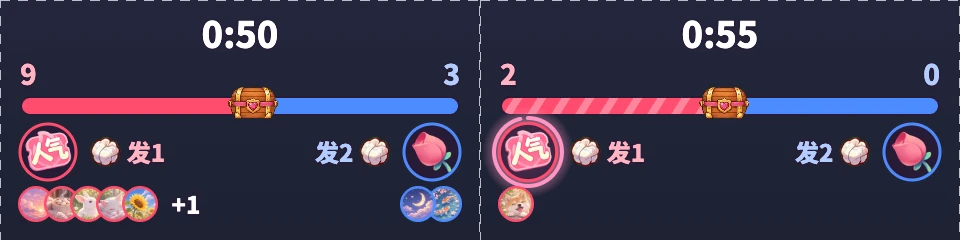
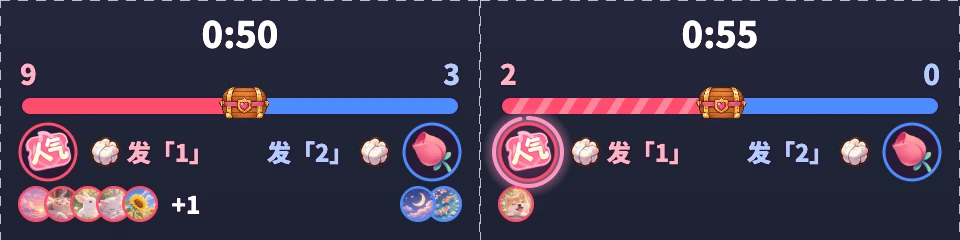
docs: 发「1」 / 发「2」 under the tug bar, and each end at least 300 票 from the middle
The danmaku's label puts the 1 and 2 to send in quotes, so 发「1」 reads as "send 1" by the paper ball it throws. Each end
of the bar is now the chest's 电池 / 20, 300 to 500 票 (was 100 to 500): most chests were at 100, one ×100 a 秒杀. The
board's ×100 buttons are ×520, still a 秒杀 whatever the chest.

check-game's routes give their 秒杀 and lightning 票 as a share of the span (of), not 100 and 55, so they run on the
board now and on the page before and after it follows; the air and peek routes wait for the prankster to be there
before reading it. tug-gifts, tug-danmaku, tug-lucky and tug-hud-1x are shot again.

diff --git a/docs/design/desktop-pet/boards/DP-DesktopPet.dc.html b/docs/design/desktop-pet/boards/DP-DesktopPet.dc.html
@@ -343,7 +343,7 @@ const PKLINES = {
 // as any gift may). One on no side is called out by name (TAUNT); a run of RETORT.hits balls in RETORT.ms has the one hit
 // answer back.
 // How a fight ends (用户：“挪中间ok”“有些人就喜欢偷袭”): the line starts in the middle, span 票 from either end (the 电池
-// in her chest / 20, 100 to 500: 用户：“20票太低、建议是100-500”). The 票 count the moment they reach the page, what has
+// in her chest / 20, 300 to 500: 用户：“20票太低、建议是100-500”, then 2026-11-24 “每次拔河的血量提升到300”). The 票 count the moment they reach the page, what has
 // landed or not: enough of one side's on their way to take the line to its end ends the fight there and then (秒杀),
 // even with the prankster still in the air, and nothing waits for the drop, for it to get up or for the lightning; a big
 // gift is meant to end it (用户：“别人送了一大组就想秒杀哦结束”). At 0:00 the board waits GAME.grace for 票 sent before 0
@@ -369,7 +369,7 @@ const SIDE_ICON = { 1: 'https://s1.hdslb.com/bfs/live/7d78646ee4ecc900cebbe46cb9
 const SIDE_COL = { 1: '#FF4D6D', '-1': '#4D8BFF' }, SIDE_LIGHT = { 1: '#FFB3C1', '-1': '#B3CDFF' };
 // the tug bar along the top of the page, wider than the old life bar (用户：“扣血加血看不出来”): her pink from the left
 // as far as the line (a little chest), its purple beyond. Under it, two rows: each side's gift icon (ICON, on a dark disc
-// ringed in its side's colour) and, smaller, a paper ball and 发1 / 发2, then the avatars of who joined it by gift. Pictures
+// ringed in its side's colour) and, smaller, a paper ball and 发「1」 / 发「2」, then the avatars of who joined it by gift. Pictures
 // over words (用户 2026-11-24：“人气票和小花花的图标太小、用户看不清”“太啰嗦了”): the gift is what pulls, so it is the big one;
 // the danmaku throws paper balls, so its mark is one, not a second way to pull. The game's words are read off a stream
 // shrunk on a phone (用户：“拔河的文字太小了、看不清”), so they keep to her bubbles' size (28 px, BUBBLE_FONT): the countdown
@@ -1378,7 +1378,7 @@ class Component extends DCLogic {
     // loot: there is something in the chest to fight over
     gm.visit = { phase: 'peek', at: now, queue: [], hits: [], spent: 0, count: 0, freezes: 0, helped: 0,
       sides: new Map(), balls: [], struck: {}, retorted: {}, taunted: new Set(), taunt: -Infinity, lucked: -Infinity, luck: null,
-      span: clamp(Math.round(gm.chest / 20), 100, 500), net: 0, red: 0, blue: 0, favours: -1, flip: {}, drag: 0, pos: { x: -70, y: 120 }, chest: null, loot: gm.chest > 0 };
+      span: clamp(Math.round(gm.chest / 20), 300, 500), net: 0, red: 0, blue: 0, favours: -1, flip: {}, drag: 0, pos: { x: -70, y: 120 }, chest: null, loot: gm.chest > 0 };
     this.pkSay(gm.brag ? 'brag' : gm.grudge ? 'grudge' : 'peek', now, gm.grudge);
     gm.brag = false; gm.grudge = null;   // (said once: 上次 is the last visit, 用户 review: it named one from visits before)
   }
@@ -2271,8 +2271,8 @@ class Component extends DCLogic {
     g.drawImage(cb, lx - chw / 2, y + h / 2 - chh * 0.6 - hop, chw, chh);
     g.restore();
     if (v.phase !== 'tug') return g.restore();   // still in the air: no rows yet, it flies right through where they go
-    // Under the bar, each side from its end inward. The first row: its gift's icon on a disc, then a paper ball and 发1 /
-    // 发2 (the danmaku throws balls); while that side's gift counts twice the icon glows pink and beats in a pink ring
+    // Under the bar, each side from its end inward. The first row: its gift's icon on a disc, then a paper ball and 发「1」 /
+    // 发「2」 (the danmaku throws balls; the 1 in quotes, what to send); while that side's gift counts twice the icon glows pink and beats in a pink ring
     // running down the window (DOUBLE). The second: the avatars of whoever joined it by gift, the newest first, five at
     // most and +N for the rest; a new one pops in.
     for (const side of [1, -1]) {
@@ -2294,7 +2294,7 @@ class Component extends DCLogic {
       }
       const ball = this.ball.plain, bh = 30, bw = ball.width / ball.height * bh, bx = at2(disc * 2 + 14 + bw / 2);
       g.drawImage(ball, bx - bw / 2, r1 - bh / 2, bw, bh);
-      g.save(); g.textAlign = side > 0 ? 'left' : 'right'; g.textBaseline = 'middle'; text(`发${side > 0 ? 1 : 2}`, at2(disc * 2 + 14 + bw + 6), r1 + 1, `800 24px ${SANS}`, SIDE_LIGHT[side]); g.restore();
+      g.save(); g.textAlign = side > 0 ? 'left' : 'right'; g.textBaseline = 'middle'; text(`发「${side > 0 ? 1 : 2}」`, at2(disc * 2 + 14 + bw + 6), r1 + 1, `800 24px ${SANS}`, SIDE_LIGHT[side]); g.restore();
       const joined = [...v.sides.values()].filter(m => m.side === side && m.by === 'gift').reverse();
       joined.slice(0, 5).forEach((m, i) => {
         const cx = at2(16 + i * 26), pop = 0.6 + 0.4 * ease(k01(now - m.at, 0, 220)), r = 16 * pop, im = this.avatars[m.av];
@@ -4067,13 +4067,13 @@ class Component extends DCLogic {
     // a 人气票 or 小花花 comes from one of the board's viewers, rather one on no side yet, so the avatars fill up; a danmaku
     // from one on no side (called out), one that says 1 or 2, or one already on a side (a paper ball)
     const side = (gift, n) => () => this.give([{ gift, price: 1, n, viewer: this.someone() }]), dm = (on, said) => () => this.heard(this.someone(on), said);
-    // ×100 is a 秒杀 while the chest holds 2000 电池 or less (each end is 100 票 away then); the last stretch is a jump of
+    // ×520 is a 秒杀 whatever the chest (each end is 300 to 500 票 away); the last stretch is a jump of
     // the fight's own clock to 10 s left, to see the dragging, the 0:00 wait and a 绝杀 without waiting the minute out
     // a lucky ball for sure (three in ten by chance), from someone put on that side, while the tug is on and none is open
     const lucky = sd => () => { const v = this.gm.visit, w = this.someone(); if (v?.phase !== 'tug' || v.cut != null || v.luck) return; this.enlist(w, sd, 'dm'); v.balls.push({ at: this.now(), side: sd, lucky: true, w, seed: this.rng() }); };
     const last10 = () => { const v = this.gm.visit; if (v?.phase === 'tug' && v.judge == null) v.left = Math.min(v.left, GAME.sprint + 400); };
-    group('小游戏', [['捣蛋鬼来了', () => this.visit()], ['人气票', side('人气票', 1)], ['人气票 ×10', side('人气票', 10)], ['人气票 ×100', side('人气票', 100)],
-      ['小花花', side('小花花', 1)], ['小花花 ×5', side('小花花', 5)], ['小花花 ×100', side('小花花', 100)], ['跳到最后 10 秒', last10],
+    group('小游戏', [['捣蛋鬼来了', () => this.visit()], ['人气票', side('人气票', 1)], ['人气票 ×10', side('人气票', 10)], ['人气票 ×520', side('人气票', 520)],
+      ['小花花', side('小花花', 1)], ['小花花 ×5', side('小花花', 5)], ['小花花 ×520', side('小花花', 520)], ['跳到最后 10 秒', last10],
       ['路人发弹幕', dm(false)], ['发「1」', dm(null, '1')], ['发「2」', dm(null, '2')], ['站了队的发弹幕', dm(true)], ['红方丢幸运纸团', lucky(1)], ['蓝方丢幸运纸团', lucky(-1)],
       ['别的礼物 100 电池', g([one('爱心抱枕', 100)])], ['别的礼物到中礼物', g([one('告白气球', 2000)])], ['PK 开始', () => this.pkOn(true)], ['PK 结束', () => this.pkOn(false)]]);
     const fit = () => { const r = document.getElementById('root'); if (r) r.style.zoom = Math.min(innerWidth / 1920, (innerHeight - bar.offsetHeight) / 1080); };

diff --git a/docs/design/desktop-pet/README.md b/docs/design/desktop-pet/README.md
@@ -502,7 +502,7 @@ open 'http://localhost:8820/render.html?board=DP-DesktopPet.dc.html&props={"game
 | 按钮 | 作用 |
 |---|---|
 | 捣蛋鬼来了 | 就是设置页的「叫它来」：等她手上的演完就来（它自己来是 30 分钟最多一次、有人在才来，不看礼物停没停，PK 时不来；“快进”两个按钮也算它的时间） |
-| 人气票、人气票 ×10、人气票 ×100、小花花、小花花 ×5、小花花 ×100 | 从画板的示意观众里挑一个送（宝箱 2000 电池以内两头各 100 票，×100 就是秒杀）（先挑还没站队的，好把头像挂满）；人气票砸它、一张扣 1 票，小花花砸她的头、一朵给它回 1 票，第 5 份把她压扁；送的人挂到条下面那一边（2026-11-16 起，见本节最后「拔河条和两边站队」） |
+| 人气票、人气票 ×10、人气票 ×520、小花花、小花花 ×5、小花花 ×520 | 从画板的示意观众里挑一个送（两头各 300 到 500 票，×520 不管多大的宝箱都是秒杀；2026-11-24 前两头最少 100 票，这两个按钮是 ×100）（先挑还没站队的，好把头像挂满）；人气票砸它、一张扣 1 票，小花花砸她的头、一朵给它回 1 票，第 5 份把她压扁；送的人挂到条下面那一边（2026-11-16 起，见本节最后「拔河条和两边站队」） |
 | 跳到最后 10 秒 | 拔河中把倒计时拨到还剩 10 秒，看被拖、0:00 的等待、绝杀，不用干等一分钟 |
 | 路人发弹幕、发「1」、发「2」、站了队的发弹幕；弹幕（事件组）就是路人发弹幕 | 它吊着箱子飞过她头顶的时候：她抬头看，它套纸袋或戴纸王冠悬在半空装死，最多三次；拔河和它坐在空箱上时：没站队的被它点名，发 1、2 的站到那边，站了队的扔纸团；弹幕不动血条 |
 | 别的礼物 100 电池、别的礼物到中礼物；普通礼物、中礼物（事件组） | 平时演原来的演出、只给家里的宝箱记数；它在时不演、电池先另记（说明行写“它走了再加 N”），它走了再进家里的宝箱，同一个人这一轮到了中礼物就开演、和舰长一样把它吓跑（事件组的普通礼物按钮送的是小花花，它在时就是帮它） |
@@ -549,7 +549,7 @@ open 'http://localhost:8820/render.html?board=DP-DesktopPet.dc.html&props={"game
 
 起因：用户说“经常出现观众送了礼物后几秒血条才有反应”。查下来 Core 收礼物和推给页面都是毫秒级，慢在“礼物先攒着”的规则（它吊着箱子在天上、抓住箱子头 2.2 秒、闪电 2.4 秒，见上面“砸倒了怎么接着拔”那段）。用户选了“血条先动、演出不改”，看了第一版又说：“血条想改一下、让它更有对抗性、现在扣血加血看不出来、我也想让弹幕参与进来、这样没办法送礼物的也有参与感”。之后一条条定下来的：
 
-- **拔河条**（看板 `BAR`，440 × 20，页面顶上）：左边是她这边的红 `#FF4D6D`，右边是它那边的蓝 `#4D8BFF`（用户：“血条换成红色和蓝色”），分界线上画一个小宝箱（宝箱的图，32 px 高），中间一道白细线标出起点。线从中间起（用户：“挪中间ok”），两头离中间各 `span` 票：家里宝箱的电池 ÷ 20，最少 100、最多 500（用户：“20票太低、建议是100-500”；画板 `startVisit`）。线（条上的小宝箱）的位置就是比分之差，票一送到页面就挪过去（`lineX`）；地上的箱子、闪电、到点判定按落下的票算（`net`）。条上面左右两头各写一边送了多少票，只写数字（按送到页面的时刻算，`red`、`blue`；用户：“不要文字显示”），中间是倒计时。原来是“还差 N 票”，线从整条紫色往右推。
+- **拔河条**（看板 `BAR`，440 × 20，页面顶上）：左边是她这边的红 `#FF4D6D`，右边是它那边的蓝 `#4D8BFF`（用户：“血条换成红色和蓝色”），分界线上画一个小宝箱（宝箱的图，32 px 高），中间一道白细线标出起点。线从中间起（用户：“挪中间ok”），两头离中间各 `span` 票：家里宝箱的电池 ÷ 20，最少 300、最多 500（用户：“20票太低、建议是100-500”；2026-11-24 最少的改成 300，用户：“每次拔河的血量提升到300”，一般的宝箱原来都落在 100，一组 ×100 就秒杀；画板 `startVisit`）。线（条上的小宝箱）的位置就是比分之差，票一送到页面就挪过去（`lineX`）；地上的箱子、闪电、到点判定按落下的票算（`net`）。条上面左右两头各写一边送了多少票，只写数字（按送到页面的时刻算，`red`、`blue`；用户：“不要文字显示”），中间是倒计时。原来是“还差 N 票”，线从整条紫色往右推。
 - **礼物马上有反应**：票一送到页面，比分和小宝箱一起变：小宝箱当场挪到新位置，原来的位置留一段白色残影，停 0.4 秒再收到线上（格斗游戏血条的做法），条按这一下挪了多少抖一下（`tally`、`ghost`、`jolt`），“+N 昵称”用那边的浅色 `#FFB3C1`、`#B3CDFF` 从新位置冒出来。礼物本身落下的时机照旧：等它爬起来、等闪电演完才砸到它或她头上；秒杀除外（见下面）。原来小宝箱等礼物落下才挪，没落下的那部分在线边画一段一闪一闪的浅色，要等的时候（它刚爬起来、放闪电）挂好几秒，用户：“怎么送了礼物以后、宝箱不按照进度移动？反而出现颜色？这不对吧”。
 - **它飞进来时条就在**：有货的宝箱，它一探头条就出现，倒计时停在 1:00，等箱子落地才走；这时送的票比分上马上看得到，够秒杀就在空中结束（见下面）。条下面两行等箱子落地再出来：它吊着箱子正好从那一带飞过。这段先画条再画它，它从条前面飞过（`drawBoard`）。
 - **两边按礼物站队**（`SIDE_GIFT`）：人气票帮她，一张往它那头推 1 票，砸它；小花花帮它，一朵往她那头推 1 票，落在她头上，第 5 份照样把她压扁。用户：“别用弹幕加入，而是限定礼物类型、比如人气票帮宠物、小花花帮捣蛋鬼、其他礼物不算、但是舰长之类的还是能吓走他”。两样都是 1 电池，都有好几个礼物编号（B站 `giftConfig?platform=pc`：人气票 33988、34003、34102、34391，小花花 31036、31216、33264、33301、33591、33664、34016，2026-11-16 查），按名字认；一次能送 1、10、100、520 个，自定义最多 5000。还有一个银瓜子的免费人气票（33987），Core 不收银瓜子礼物，所以不算。
@@ -570,8 +570,8 @@ open 'http://localhost:8820/render.html?board=DP-DesktopPet.dc.html&props={"game
 - **探头那 2.4 秒不算开打**：这时送的人气票、小花花先记着，等它吊着箱子飞进来再算（`early`、`reckon`）。原来空箱时箱子从画面外凭空出现、挂在绳子上横穿画面；有货时被秒杀，她对着一只从没出现的箱子欢呼。
 - **新的第一名**：它在场时有人成了新的第一名，等它走了、宝箱到家再补演（`gm.top`；原来这段丢了）。
 - **它开场那句**：“上次那箱真不错～”“上次砸我的{昵称}在吗？”只说上一次来访的事，说过就清掉（原来记仇的名字一直留着，几次以后还点同一个人）。
-- **条下面两行**：第一行从两头往里，先是礼物图标（B站 自己的图，B站 图床允许跨域，页面照画礼物图标那样直接取），再是一个纸团和“发1”“发2”；第二行是送礼入伙的人的头像，最新的在前，最多 5 个，再多显示“+N”，新加入的弹一下。发 1、2 加入的人不挂头像。用户：“人气票和小花花的icon挂在礼物条下面就行……两边的人的icon头像也挂在”。
-  - **2026-11-24 改版**（用户：“小游戏里面人气票和小花花的图标太小、用户看不清、而且弹幕1/2可以让buff*2的设计也容易让人误解”）：礼物图标从 32 px 放大到 48 px（`ICON`），垫一块深色圆底（半径 28，`rgba(40,26,54,0.85)`），外圈 3 px 那一边的颜色；图标贴着条的那头（圆心离条端 28 px）。紧跟着是纸团的图（`textures/paperball.webp`，高 30 px，离圆底 14 px）和“发1”“发2”（24 px 粗体、那一边的浅色、描深色边，离纸团 6 px），原来那块那一边颜色的“发1”小牌子去掉。两行的中心在条下 36 px 和 88 px（`ROW`），整块到条下 108 px（`HUD`，原来 82）。
+- **条下面两行**：第一行从两头往里，先是礼物图标（B站 自己的图，B站 图床允许跨域，页面照画礼物图标那样直接取），再是一个纸团和“发「1」”“发「2」”（要发的 1、2 加引号，2026-11-24 用户：“不要用发1，发2，而是发「1」这种引用起来、方便大家理解发1就是纸团的”）；第二行是送礼入伙的人的头像，最新的在前，最多 5 个，再多显示“+N”，新加入的弹一下。发 1、2 加入的人不挂头像。用户：“人气票和小花花的icon挂在礼物条下面就行……两边的人的icon头像也挂在”。
+  - **2026-11-24 改版**（用户：“小游戏里面人气票和小花花的图标太小、用户看不清、而且弹幕1/2可以让buff*2的设计也容易让人误解”）：礼物图标从 32 px 放大到 48 px（`ICON`），垫一块深色圆底（半径 28，`rgba(40,26,54,0.85)`），外圈 3 px 那一边的颜色；图标贴着条的那头（圆心离条端 28 px）。紧跟着是纸团的图（`textures/paperball.webp`，高 30 px，离圆底 14 px）和“发「1」”“发「2」”（24 px 粗体、那一边的浅色、描深色边，离纸团 6 px），原来那块那一边颜色的“发1”小牌子去掉。两行的中心在条下 36 px 和 88 px（`ROW`），整块到条下 108 px（`HUD`，原来 82）。
   - 为什么这样：礼物是推条的，弹幕是扔纸团的，原来“图标＋发1 小牌子”并排，看着像二选一（送人气票或者发 1），也会被读成“发 1 张人气票”。否掉的写法：写成“送人气票／弹幕发 1”两行（还是二选一）、“弹幕1 抽人气票×2”（读成抽人气票）、三行写全“幸运纸团：1张算2票”（用户：“太啰嗦了”）。直播画面上能用图说的不写字，因果交给动画（见下面“加倍亮在得益那边的礼物上”）。ui-ux-pro-max：一屏只有一个主要操作、次要的弱一级（`primary-action`、`visual-hierarchy`），图标别单独承担意思、要和说明配着（`icon-context`），别只显示一个光秃秃的数（Contextual Live Badge）。
 - **弹幕站队**：整条“1”站她、“2”站它（去掉两边空格后完全一样，“扣111”不算），以最后一次为准；送过人气票或小花花的人按礼物算，再发 1、2 不改边（不然头像挂一边、纸团从另一边扔）。它走了全部清零。uid 为 0 的人认不出是谁，不能站队、不被点名。用户先否了“没送礼的人默认算她这边”：“弹幕更多是下面的其他人发的吧、你想过怎么区分他们帮哪边哪”；又否了让嘲讽来教怎么站队：“嘲讽太慢、要不两边除了挂人物、礼物还有弹幕加入方法”。
 - **弹幕不动血条**（用户：“发弹幕也可以有影响、但不影响血条”）：原来每条弹幕是一颗小石子、打掉 2%、最多三成，删了。它吊着箱子飞时弹幕照旧让它装死（最多三次）。拔河时、它坐在空箱上时（不在闪电那几秒）：
@@ -585,18 +585,18 @@ open 'http://localhost:8820/render.html?board=DP-DesktopPet.dc.html&props={"game
 - **它的过渡帧**（用户：“补上过度帧”）：新规则让它多了四种换姿势，codex 补画了中间两帧（`tools/pk-inbetween.py`，描述在 `tools/frames/`，看板 `PKTRANS`）：扛绳 → 挨砸（最后 10 秒她反超、人气票砸中它，`pkHaulOuch`）、扛绳 → 泄气（拖着时被她秒杀，`pkHaulFlat`）、放闪电 → 泄气（`pkThunderFlat`）和放闪电 → 扛绳（`pkThunderHaul`，闪电放到一半被两边秒杀）。放闪电 → 扛绳第一次中间两帧画小了 16–19%，描述里写明“不变小”后重画过关。很少见的重叠（刚挨砸 0.45 秒内又被秒杀、正指着她笑时被秒杀或开始拖）照她的 `route`，借道拽绳把已有的过渡帧接起来播（`pkRoute`），不另画。刚抓住箱子它还晕着就被秒杀，照空箱那样一下被打飞（`knocked`），不画晕着 → 泄气。故意直接切的写进看板 `PKCUT`（原来只写在下面“捣蛋鬼在一个地方换姿势”那条）：伪装套上摘下、往下掉、翻跟头、被打飞、探头 → 吊箱子；套着纸袋或戴着纸王冠时被吓到，也照“伪装一下变出来、一下没了”直接切。
 - **纸团的图**：`textures/paperball.webp`，`tools/gen-prop.py paperball`（描述 `tools/props/paperball.txt`），用户确认过。要的是她身高的 0.08（页面上约 20 px），codex 三次都画成 0.13，页面上约 33 px，和小礼物图标一样大，按“生成时定尺寸、不事后拉伸”留用，关卡改成 0.10–0.15。
 
-画板按钮见上面的按钮表。示意头像借礼物榜设计包的 `textures/avatars/`（`blobs.json` 指过去），画板里 8 个示意观众 `VIEWERS`。截图（“深色房间”底，实时播放截的，残影、待扣段、闪星都在动，各帧亮度不同；宝箱 1200 电池，两头按最少的 100 票）：
+画板按钮见上面的按钮表。示意头像借礼物榜设计包的 `textures/avatars/`（`blobs.json` 指过去），画板里 8 个示意观众 `VIEWERS`。截图（“深色房间”底，实时播放截的，残影、待扣段、闪星都在动，各帧亮度不同；宝箱 1200 电池，两头按最少的票数：2026-11-24 重截的四张是 300 票，其余是 100 票）：
 - `preview/tug-gifts.webp`：开局、人气票刚到、砸中、头像挂上、小花花刚到、落下、多人入伙。
 - `tug-danmaku.webp`：路人被点名、发 1、砸中、发 2、回嘴。
 - `tug-lucky.webp`：幸运纸团、露破绽（星在飞）、双倍刚到（图标亮起）、+4、窗口里。
-- 这三张和 `tug-hud-1x.webp` 是 2026-11-24 按条下面改版重截的；下面几张截于改版前，条下面还是 32 px 图标、“发1”小牌子和比分旁的 ×2，条下面以这四张为准。
+- 这三张和 `tug-hud-1x.webp` 是 2026-11-24 按条下面改版重截的；下面几张截于改版前，条下面还是 32 px 图标、“发1”小牌子和比分旁的 ×2，两头还是 100 票，条下面和票数以这四张为准。
 - `tug-other.webp`：100 电池不演、到中礼物吓跑、宝箱回家。
 - `tug-flight.webp`：它飞进来时条就在、这时送的票马上上比分。
 - `tug-kill.webp`：一组 ×100 当场秒杀、闪一下、守住了。`tug-air.webp`：空中把它打下来。`tug-steal.webp`：小花花一组 ×100 当场被拖走。
 - `tug-buzzer.webp`：最后 6 秒落后被拖、最后 10 张反超、0:00 下面的线在缩、闪一下、绝杀、精灵吊箱子回家时绝杀已经消失、她说“绝杀！守住啦！”。`tug-tie.webp`：0 比 0、线在缩、被偷了。
 - 条这一块原尺寸 `tug-hud-1x.webp`。
 
-验收：`node tools/check-game.mjs 8820` 42 条路线都走得通（2026-11-17、18 加了 17 条：`empty-snatch`、`empty-snatch-peer` 空箱被拿走，`scare-big`、`scare-big-zap`、`scare-air-big`、`burst-race`、`box-mid`、`scare-lottery` 光圈和抽奖打断，`late-gift`、`empty-air-kill`、`empty-air-steal` 第一轮审查，`win-big`、`lose-big`、`pk-zap-gift`、`guard-gov`、`peek-steal`、`peek-kill` 第二轮），她换姿势没有一处无路，它换姿势没有一处没有过渡帧（新加的 `buzzer-win`、`sprint-flip`、`steal-kill`、`zap-kill`、`air-kill`、`air-steal`、`sprint-kill`、`up-kill`、`zap-steal` 走秒杀、绝杀、领先来回换、空中结束、拖着时被秒杀、刚抓住就被秒杀、闪电中被帮它的秒杀；路线里的礼物是人气票、小花花，开头先等画板启动完；一起跑太多会有 Chrome 卡住，每条最多跑 6 分钟，卡住的单独再跑；分两批跑最稳）；`node scripts/desktop-pet/compare.mjs` 小游戏以外的 49 个用例、319 个时刻页面和画板一样，小游戏路线要等桌宠页按这一节改完才对得上。
+验收：`node tools/check-game.mjs 8820` 42 条路线都走得通（2026-11-17、18 加了 17 条：`empty-snatch`、`empty-snatch-peer` 空箱被拿走，`scare-big`、`scare-big-zap`、`scare-air-big`、`burst-race`、`box-mid`、`scare-lottery` 光圈和抽奖打断，`late-gift`、`empty-air-kill`、`empty-air-steal` 第一轮审查，`win-big`、`lose-big`、`pk-zap-gift`、`guard-gov`、`peek-steal`、`peek-kill` 第二轮），她换姿势没有一处无路，它换姿势没有一处没有过渡帧（新加的 `buzzer-win`、`sprint-flip`、`steal-kill`、`zap-kill`、`air-kill`、`air-steal`、`sprint-kill`、`up-kill`、`zap-steal` 走秒杀、绝杀、领先来回换、空中结束、拖着时被秒杀、刚抓住就被秒杀、闪电中被帮它的秒杀；路线里的礼物是人气票、小花花，秒杀、闪电用的票数按两头的票数（`span`）折算（`of`，2026-11-24 起，不再写死 100、55），开头先等画板启动完；一起跑太多会有 Chrome 卡住，每条最多跑 6 分钟，卡住的单独再跑；分两批跑最稳）；`node scripts/desktop-pet/compare.mjs` 小游戏以外的 49 个用例、319 个时刻页面和画板一样，小游戏路线要等桌宠页按这一节改完才对得上。
 
 实现时别漏：
 - 页面的头像：桌宠页要知道每份入伙礼物的送礼人头像。礼物消息里带的就用（`Gift.FaceUrl`），没有就画那一边颜色的圆、写昵称第一个字，不另去 B站 按 UID 补（上线看缺得多再照礼物榜补）。
@@ -606,7 +606,7 @@ open 'http://localhost:8820/render.html?board=DP-DesktopPet.dc.html&props={"game
 - 设置加 `desktop_pet.lucky_percent`（幸运纸团的几率，默认 30，0 是关），页面状态带上它，桌宠页按它算 `LUCK.chance`；GUI 照第 13 节的开关做。
 - 台词说明：「打跑了」改成“空箱时有人送人气票把它打飞”，「被打跑」改成“被人气票打跑时”；2026-11-18 又改了六条（DP1 画板）：「露破绽」「趁现在」是“这 10 秒”（原来写 5 秒，2026-11-22 随双倍窗口改成“这 20 秒”），「收下小花花」“空箱时有人送小花花、它拿走箱子时”（原来只写坐在空箱上），「放闪电」“她领先到一半、它放闪电时”（原来写血掉一半，已经没有血条），「被偷了」“宝箱被拿走、她跪着哭时”（空箱是被吊走的），「记仇」“上次来时有人砸过它，探头说这句”（原来写上次砸它的人在直播间时，其实不看人在不在）。
 - 2026-11-17、18 画板改的规则（空箱被小花花拿走、×2 挂在比分旁（2026-11-24 改成亮在礼物图标上）、光圈打断、闪电加票、收尾、另记、探头、宽限 5 秒（2026-11-22 改成 10 秒）、被偷了 B 档）桌宠页照搬，`routes.mjs` 跟 `check-game.mjs` 的 42 条路线。
-- 2026-11-24 条下面改版（上面「条下面两行」「加倍亮在得益那边的礼物上」）：桌宠页 `pet.mjs` 的 `ROW`、`HUD`、条下面第一行和双倍的画法照搬画板（`ICON`、`iconAt` 代替 `doubleAt`，比分旁不再画 ×2）；纸团的图页面已经有（扔纸团用的那张）。
+- 2026-11-24 条下面改版（上面「条下面两行」「加倍亮在得益那边的礼物上」）：桌宠页 `pet.mjs` 的 `ROW`、`HUD`、条下面第一行和双倍的画法照搬画板（`ICON`、`iconAt` 代替 `doubleAt`，比分旁不再画 ×2，文字是“发「1」”“发「2」”）；纸团的图页面已经有（扔纸团用的那张）。两头最少 300 票：`engine.mjs` 的 `span` 照画板 `startVisit` 改。
 
 ## 13. 能关的数字前面加开关（2026-11-16）
 
